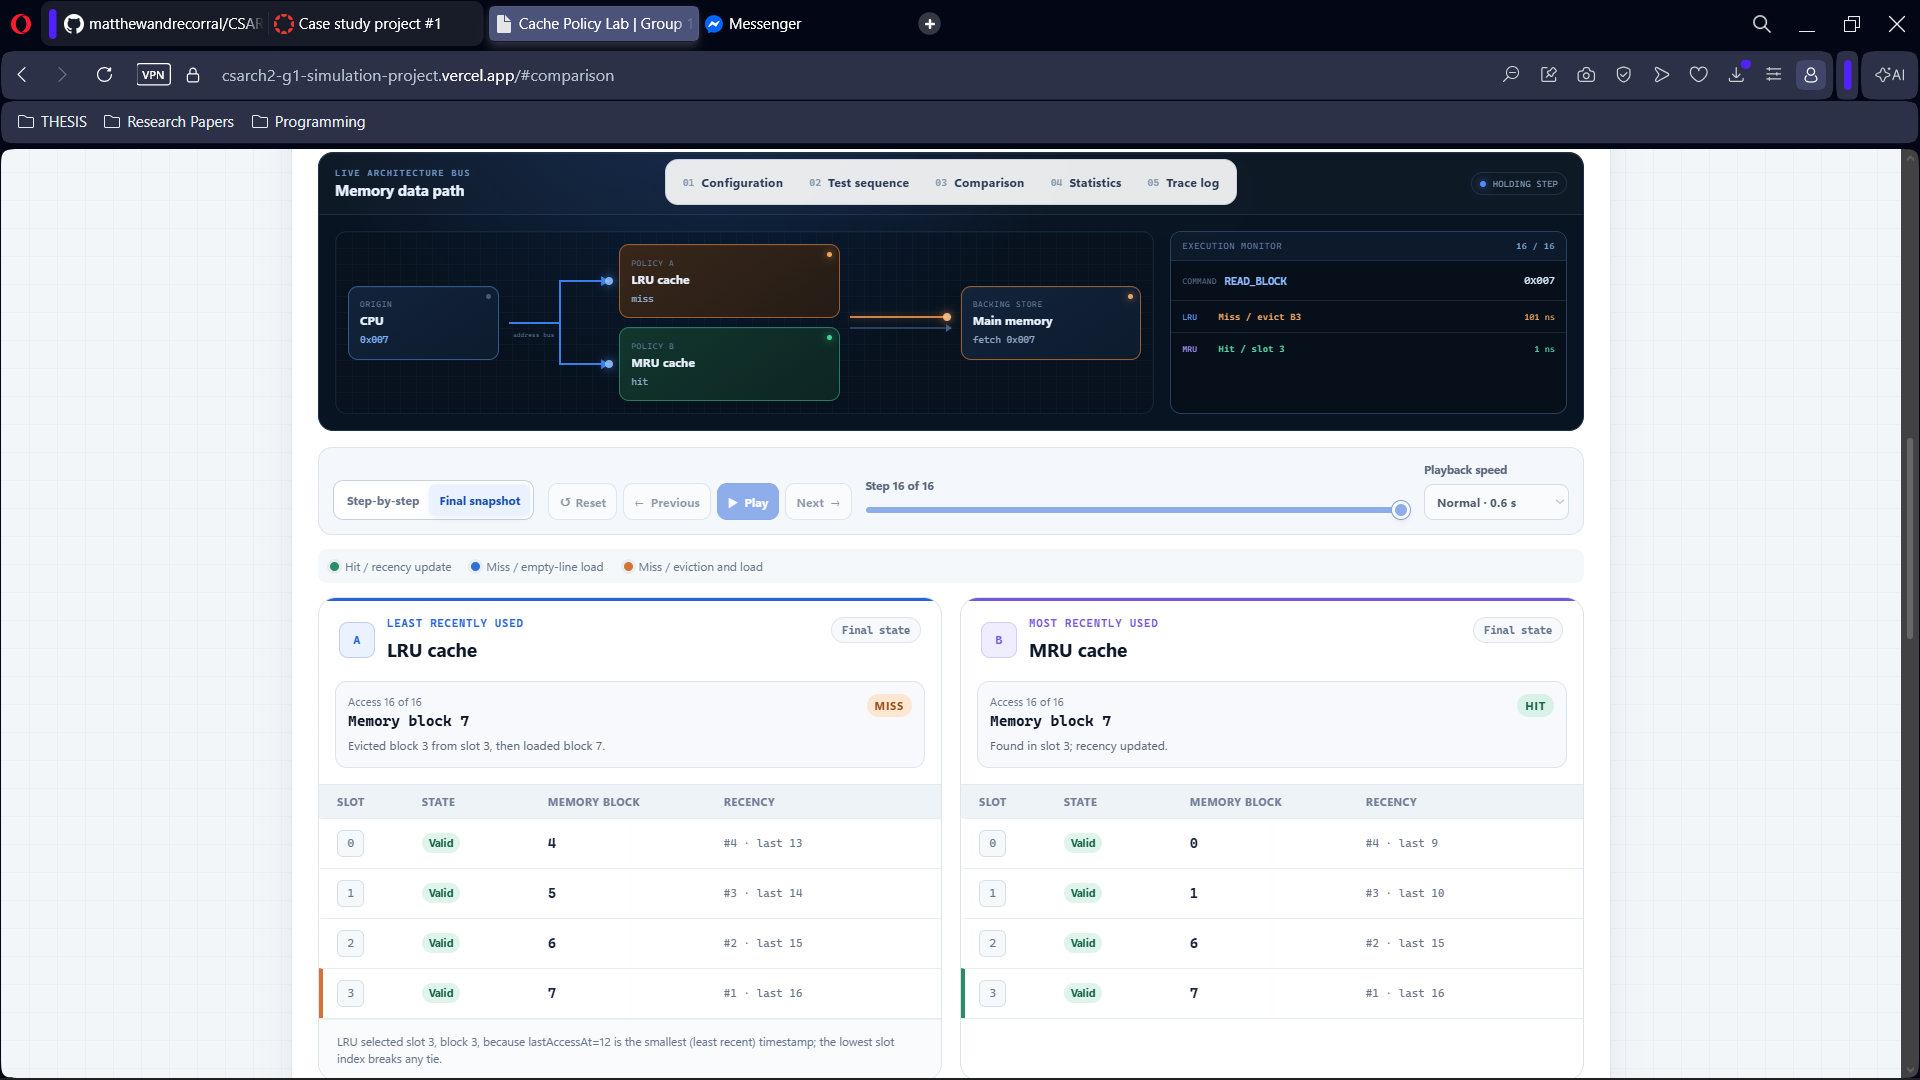
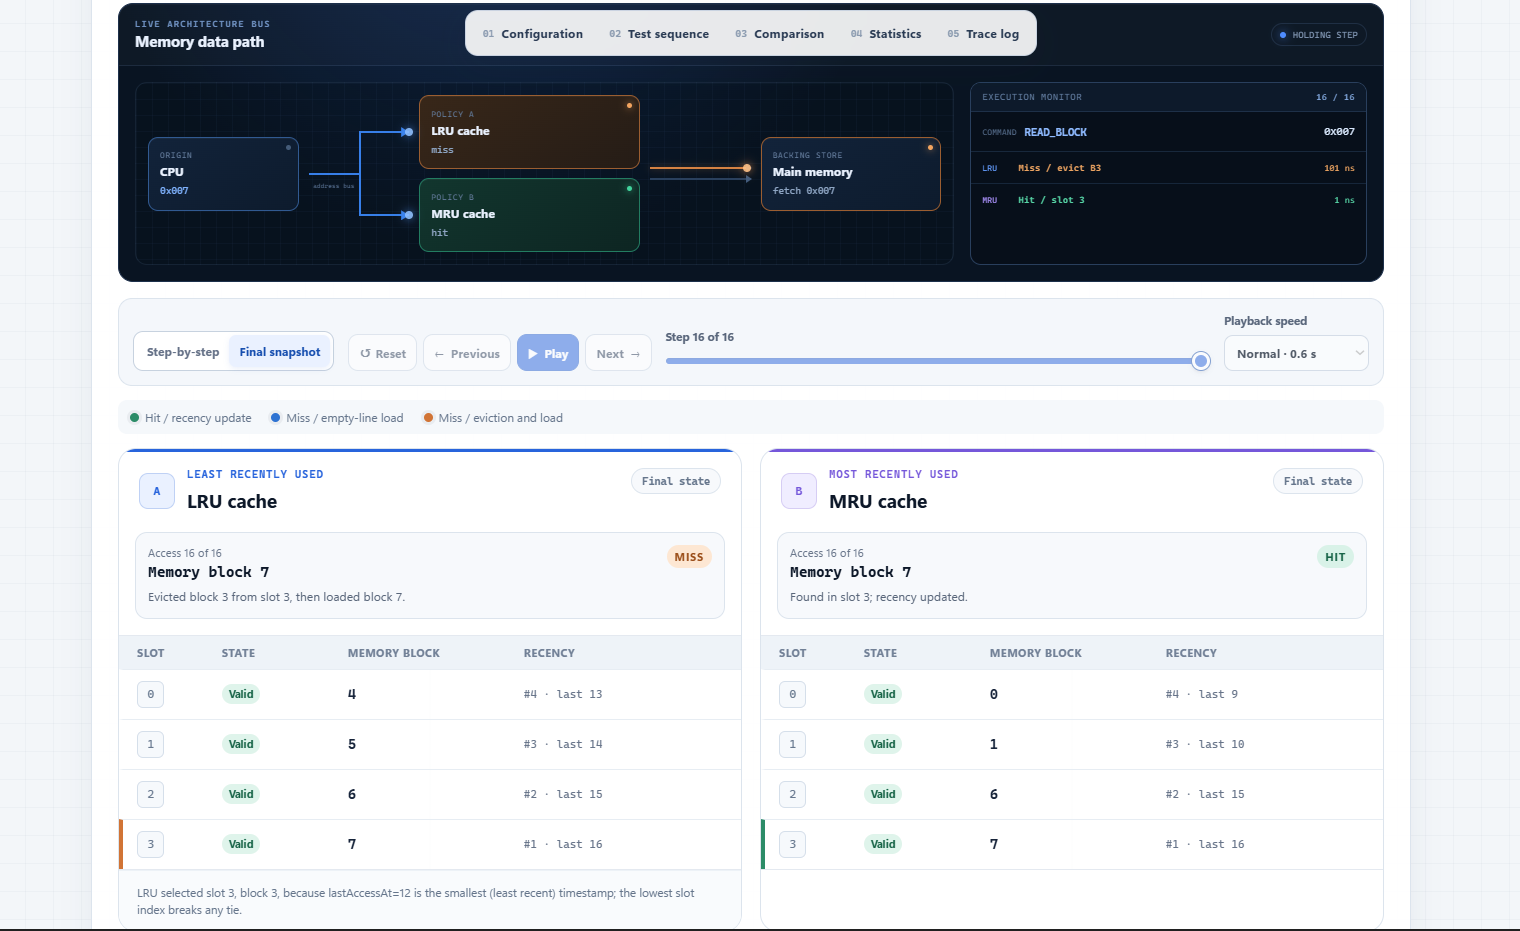
Crop test screenshots and add live deployment

diff --git a/README.md b/README.md
@@ -6,6 +6,8 @@ A browser-based simulator that runs Least Recently Used (LRU) and Most Recently 
 
 The simulator implements the assigned Machine 6 cache-memory requirements. The cache engine is independent of React so its behavior can be tested without the interface.
 
+**Live deployment:** [Open the Fully Associative Cache Policy Lab](https://csarch2-g1-simulation-project.vercel.app)
+
 ## Features
 
 - Configurable power-of-two block size and cache-line count.
@@ -262,7 +264,7 @@ The custom sequence `0, 1, 2, 3, 0` produces four compulsory misses followed by 
 
 ![Minimum and boundary statistics](docs/screenshots/10b-minimum-and-boundary-statistics.png)
 
-This case uses the minimum valid 2-word block size and the inclusive address boundaries `0` and `1,023` in the sequence `0, 1023, 0, 1023`. The first reference to each block misses, the repeated references hit, and no replacement is needed because only two of four lines are occupied. Both policies consequently produce two hits and two misses. The captured run uses non-load-through timing, so the total is `(2 × 102) + (2 × 1) = 206 ns`, with `51.5 ns` AMAT.
+This case uses the minimum valid 2-word block size and the inclusive address boundaries `0` and `1,023` in the sequence `0, 1023, 0, 1023`. The first reference to each block misses, the repeated references hit, and no replacement is needed because only two of four lines are occupied. Both policies consequently produce two hits and two misses. The captured run uses load-through timing, so a miss costs `C + M = 101 ns`. The total is `(2 × 101) + (2 × 1) = 204 ns`, with `51 ns` AMAT.
 
 #### Repeated block hits
 
@@ -274,7 +276,7 @@ This case uses the minimum valid 2-word block size and the inclusive address bou
 
 ![Repeated block hits statistics](docs/screenshots/11b-repeated-block-hits-statistics.png)
 
-Repeating block `7` four times must cause one initial miss followed by three hits; replacement policy cannot affect the result because the block remains in the first occupied line. Both policies correctly report a 75% hit rate. With the captured non-load-through timing, `(1 × 102) + (3 × 1) = 105 ns`, and `105 / 4 = 26.25 ns` AMAT.
+With a 4-word block size and four cache lines, repeating block `7` four times must cause one initial miss followed by three hits; replacement policy cannot affect the result because the block remains in the first occupied line. Both policies correctly report a 75% hit rate. With the captured load-through timing, the total is `(1 × 101) + (3 × 1) = 104 ns`, and `104 / 4 = 26 ns` AMAT.
 
 #### Sixteen-line cache
 
